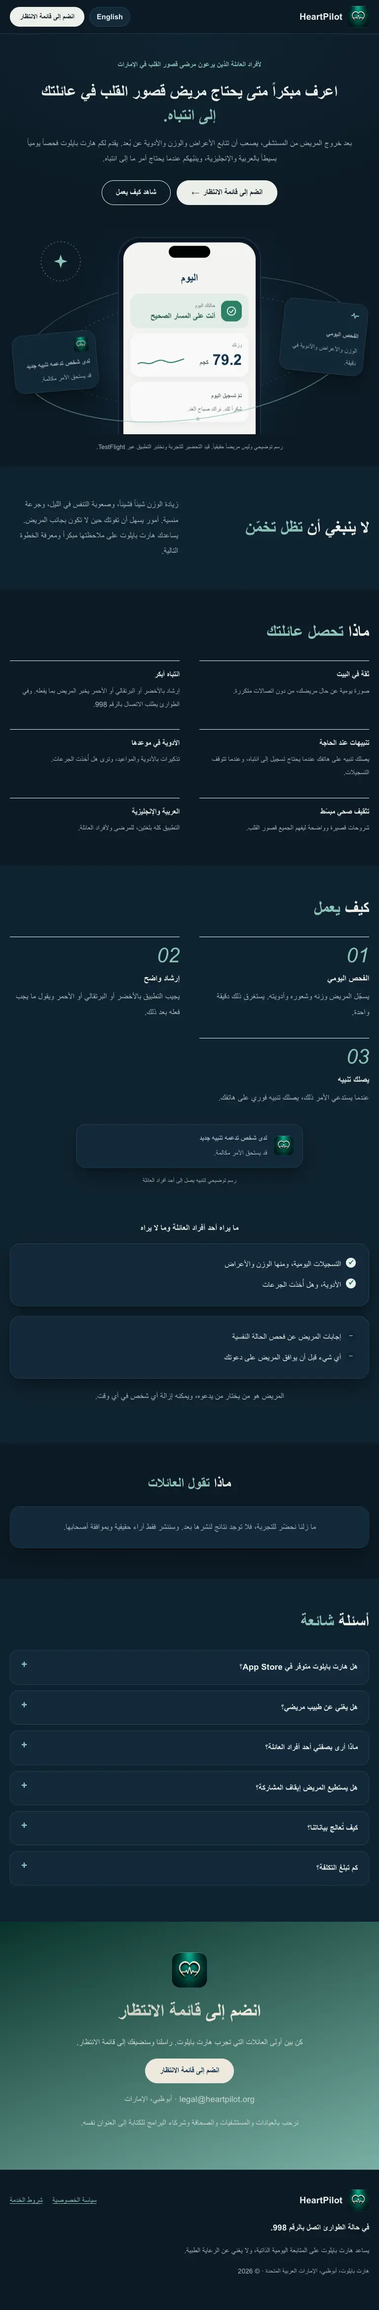
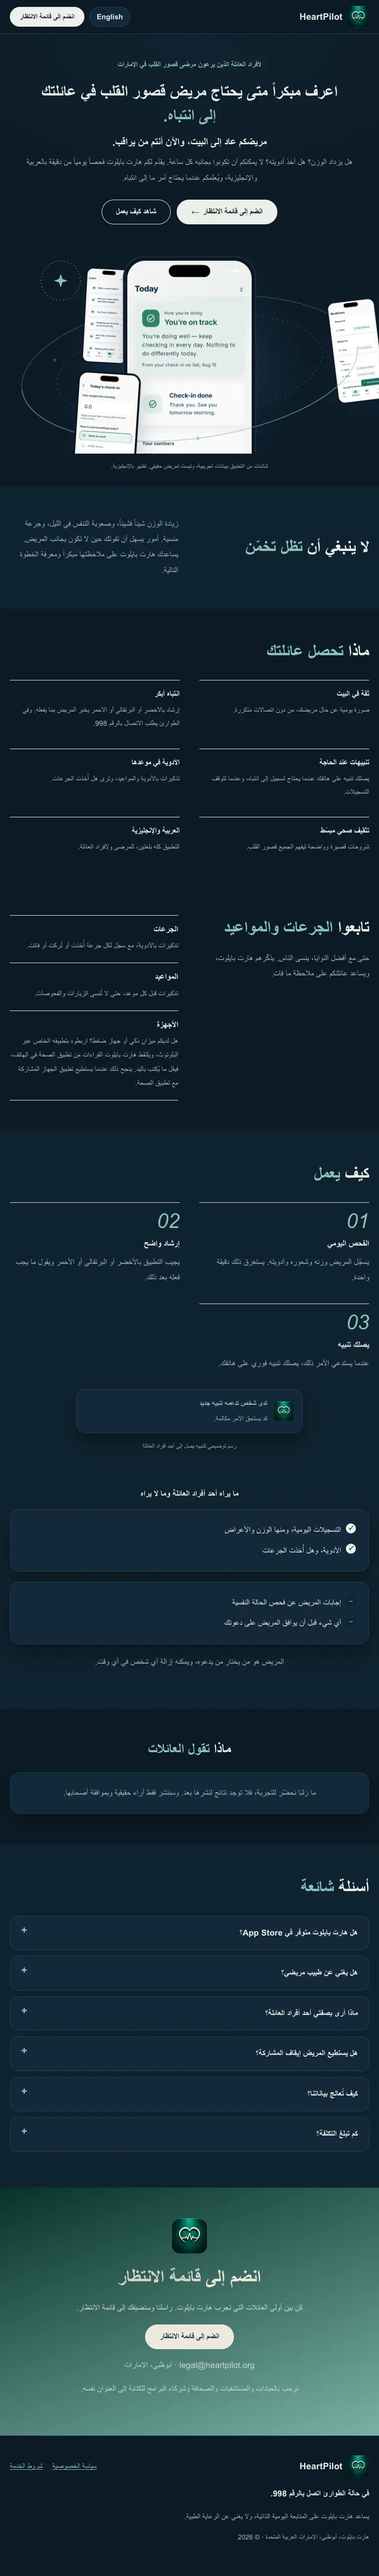
Hero: real app screens orbiting the central phone; device line says Bluetooth via the device's own app

diff --git a/index.html b/index.html
@@ -44,24 +44,17 @@
 <h1><span data-l="en">Know sooner when your loved one’s <em>heart failure needs attention.</em></span><span data-l="ar" lang="ar">اعرف مبكراً متى يحتاج مريض قصور القلب في عائلتك <em>إلى انتباه.</em></span></h1>
 <p class="lead lead-hero"><span data-l="en"><strong>They’re home from hospital. Now you’re the one watching.</strong> Is the weight creeping up? Did they take their pills? You can’t be there every hour. HeartPilot gives your family a one-minute daily check-in in English and Arabic, and lets you know when something needs attention.</span><span data-l="ar" lang="ar"><strong>مريضكم عاد إلى البيت، والآن أنتم من يراقب.</strong> هل يزداد الوزن؟ هل أخذ أدويته؟ لا يمكنكم أن تكونوا بجانبه كل ساعة. يقدّم لكم هارت بايلوت فحصاً يومياً من دقيقة بالعربية والإنجليزية، ويُعلمكم عندما يحتاج أمر ما إلى انتباه.</span></p>
 <div class="cta"><a class="btn btn-dark" href="#contact"><span data-l="en">Join the waitlist</span><span data-l="ar" lang="ar">انضم إلى قائمة الانتظار</span><i aria-hidden="true" class="arr">→</i></a><a class="btn btn-ghost" href="#how"><span data-l="en">See how it works</span><span data-l="ar" lang="ar">شاهد كيف يعمل</span></a></div>
-<div class="stage" role="img" aria-label="An illustration of the HeartPilot Today screen showing the message You are on track, with a daily check-in card and a caregiver alert card" data-aria-en="An illustration of the HeartPilot Today screen showing the message You are on track, with a daily check-in card and a caregiver alert card" data-aria-ar="رسم توضيحي لشاشة اليوم في هارت بايلوت يعرض رسالة أنت على المسار الصحيح، مع بطاقة الفحص اليومي وبطاقة تنبيه لأحد أفراد العائلة">
+<div class="stage" role="img" aria-label="Screens from the HeartPilot app, with sample data: Today, Medicines, Today’s check-in and Learn" data-aria-en="Screens from the HeartPilot app, with sample data: Today, Medicines, Today’s check-in and Learn" data-aria-ar="شاشات من تطبيق هارت بايلوت ببيانات تجريبية: اليوم، والأدوية، والفحص اليومي، والتعلّم">
 <svg class="orbit orbit-back" viewBox="0 0 1000 560" preserveAspectRatio="none" aria-hidden="true"><g transform="rotate(-7 500 330)" fill="none" stroke="currentColor" stroke-width="1.4" vector-effect="non-scaling-stroke"><ellipse cx="500" cy="330" rx="470" ry="190" vector-effect="non-scaling-stroke"/><ellipse cx="500" cy="330" rx="372" ry="140" stroke-dasharray="3 7" vector-effect="non-scaling-stroke"/></g><g transform="rotate(-7 500 330)" fill="currentColor"><circle cx="500" cy="140" r="5"/><circle cx="130" cy="262" r="4"/><circle cx="905" cy="400" r="4"/></g></svg>
 <svg class="orbit orbit-front" viewBox="0 0 1000 560" preserveAspectRatio="none" aria-hidden="true"><g transform="rotate(-7 500 330)"><path d="M30 330A470 190 0 0 0 970 330" fill="none" stroke="currentColor" stroke-width="1.8" vector-effect="non-scaling-stroke"/><circle cx="500" cy="520" r="5" fill="currentColor"/></g></svg>
 <div class="badge" aria-hidden="true"><svg viewBox="0 0 120 120"><defs><path id="bc" d="M60 60m-46 0a46 46 0 1 1 92 0a46 46 0 1 1-92 0"/></defs><g class="spin"><text data-l="en"><textPath href="#bc">DAILY CHECK-IN · EARLIER AWARENESS · </textPath></text><circle data-l="ar" cx="60" cy="60" r="46" fill="none" stroke="currentColor" stroke-width="1.2" stroke-dasharray="2 6"/></g><path d="M60 44l4 12 12 4-12 4-4 12-4-12-12-4 12-4z" fill="currentColor"/></svg></div>
-<div class="gcard g-left" aria-hidden="true"><svg viewBox="0 0 24 24" width="22" height="22"><path d="M4 12h3l2-5 3 10 2-5h6" fill="none" stroke="currentColor" stroke-width="2" stroke-linecap="round" stroke-linejoin="round"/></svg><b><span data-l="en">Daily check-in</span><span data-l="ar" lang="ar">الفحص اليومي</span></b><span><span data-l="en">Weight, symptoms and medicines in a minute.</span><span data-l="ar" lang="ar">الوزن والأعراض والأدوية في دقيقة.</span></span></div>
-<div class="phone" aria-hidden="true"><div class="notch"></div><div class="screen">
-<div class="s-top"><b><span data-l="en">Today</span><span data-l="ar" lang="ar">اليوم</span></b></div>
-<div class="s-card s-ok"><span class="s-ico"><svg viewBox="0 0 24 24" width="22" height="22"><circle cx="12" cy="12" r="9" fill="none" stroke="#fff" stroke-width="2"/><path d="M8 12.5l3 3 5-6" fill="none" stroke="#fff" stroke-width="2" stroke-linecap="round" stroke-linejoin="round"/></svg></span>
-<div><small><span data-l="en">How you’re doing</span><span data-l="ar" lang="ar">حالتك اليوم</span></small><strong><span data-l="en">You’re on track</span><span data-l="ar" lang="ar">أنت على المسار الصحيح</span></strong></div></div>
-<div class="s-card s-num"><small><span data-l="en">Your weight</span><span data-l="ar" lang="ar">وزنك</span></small><strong>79.2 <i><span data-l="en">kg</span><span data-l="ar" lang="ar">كجم</span></i></strong>
-<svg viewBox="0 0 120 36" class="spark" aria-hidden="true"><path d="M2 22c14-8 22 4 36-2s20-10 34-4 22 2 46-6" fill="none" stroke="currentColor" stroke-width="2.4" stroke-linecap="round"/></svg></div>
-<div class="s-card s-done"><b><span data-l="en">Check-in done</span><span data-l="ar" lang="ar">تمّ تسجيل اليوم</span></b><span><span data-l="en">Thank you. See you tomorrow morning.</span><span data-l="ar" lang="ar">شكراً لك. نراك صباح الغد.</span></span></div>
-</div></div>
-<div class="gcard g-right" aria-hidden="true"><img class="logo" src="/assets/logo-128.png" width="30" height="30" alt=""><b><span data-l="en">Someone you support has a new alert</span><span data-l="ar" lang="ar">لدى شخص تدعمه تنبيه جديد</span></b><span><span data-l="en">It may be worth a call.</span><span data-l="ar" lang="ar">قد يستحق الأمر مكالمة.</span></span></div>
+<div class="phone shot" aria-hidden="true"><div class="notch"></div><img src="/assets/app-today.webp" width="420" height="913" alt="" fetchpriority="high"></div>
+<img class="sat s1" src="/assets/app-medicines.webp" width="260" height="565" alt="" loading="lazy" style="left:88%;top:68%">
+<img class="sat s2" src="/assets/app-checkin.webp" width="260" height="565" alt="" loading="lazy" style="left:30%;top:88%">
+<img class="sat s3" src="/assets/app-learn.webp" width="260" height="565" alt="" loading="lazy" style="left:20%;top:38%">
 <p class="stage-note" aria-hidden="true"><i></i><span data-l="en">In pilot preparation. Not yet on the App Store.</span><span data-l="ar" lang="ar">قيد التحضير للتجربة. غير متوفر بعد في App Store.</span></p>
-<p class="stage-tag" aria-hidden="true"><span data-l="en">Less guessing. More confidence.</span><span data-l="ar" lang="ar">تخمين أقل. ثقة أكبر.</span></p>
 </div>
-<p class="cap"><span data-l="en">Illustration, not a real patient. In pilot preparation, testing on TestFlight.</span><span data-l="ar" lang="ar">رسم توضيحي وليس مريضاً حقيقياً. قيد التحضير للتجربة ونختبر التطبيق عبر TestFlight.</span></p>
+<p class="cap"><span data-l="en">Screens from the app, with sample data. Not a real patient. Shown in English.</span><span data-l="ar" lang="ar">شاشات من التطبيق ببيانات تجريبية، وليست لمريض حقيقي. تظهر بالإنجليزية.</span></p>
 </div></section>
 <section class="alt"><div class="wrap split">
 <h2><span data-l="en">You should not have to <em>guess</em></span><span data-l="ar" lang="ar">لا ينبغي أن <em>تظل تخمّن</em></span></h2>
@@ -73,7 +66,7 @@
 <section id="reminders"><div class="wrap split top">
 <div><h2><span data-l="en">Keep track of <em>doses and visits</em></span><span data-l="ar" lang="ar">تابعوا <em>الجرعات والمواعيد</em></span></h2>
 <p class="lead"><span data-l="en">Even with the best intentions, people forget. HeartPilot reminds them, and helps your family see when something slipped.</span><span data-l="ar" lang="ar">حتى مع أفضل النوايا، ينسى الناس. يذكّرهم هارت بايلوت، ويساعد عائلتكم على ملاحظة ما فات.</span></p></div>
-<ul class="rows"><li class="row"><h3><span data-l="en">Doses</span><span data-l="ar" lang="ar">الجرعات</span></h3><p><span data-l="en">Medicine reminders, plus a record of each dose taken, skipped or missed.</span><span data-l="ar" lang="ar">تذكيرات بالأدوية، مع سجل لكل جرعة أُخذت أو تُركت أو فاتت.</span></p></li><li class="row"><h3><span data-l="en">Appointments</span><span data-l="ar" lang="ar">المواعيد</span></h3><p><span data-l="en">Reminders before each appointment, so visits and tests are not forgotten.</span><span data-l="ar" lang="ar">تذكيرات قبل كل موعد، حتى لا تُنسى الزيارات والفحوصات.</span></p></li><li class="row"><h3><span data-l="en">Devices</span><span data-l="ar" lang="ar">الأجهزة</span></h3><p><span data-l="en">Have a smart scale or blood pressure monitor? Readings can come in through the phone’s Health app, so there is less to type. This works when the device’s own app can share with Health.</span><span data-l="ar" lang="ar">هل لديكم ميزان ذكي أو جهاز ضغط؟ يمكن أن تصل القراءات عبر تطبيق الصحة في الهاتف، فيقل ما يُكتب باليد. ينجح ذلك عندما يستطيع تطبيق الجهاز نفسه المشاركة مع تطبيق الصحة.</span></p></li></ul>
+<ul class="rows"><li class="row"><h3><span data-l="en">Doses</span><span data-l="ar" lang="ar">الجرعات</span></h3><p><span data-l="en">Medicine reminders, plus a record of each dose taken, skipped or missed.</span><span data-l="ar" lang="ar">تذكيرات بالأدوية، مع سجل لكل جرعة أُخذت أو تُركت أو فاتت.</span></p></li><li class="row"><h3><span data-l="en">Appointments</span><span data-l="ar" lang="ar">المواعيد</span></h3><p><span data-l="en">Reminders before each appointment, so visits and tests are not forgotten.</span><span data-l="ar" lang="ar">تذكيرات قبل كل موعد، حتى لا تُنسى الزيارات والفحوصات.</span></p></li><li class="row"><h3><span data-l="en">Devices</span><span data-l="ar" lang="ar">الأجهزة</span></h3><p><span data-l="en">Have a smart scale or blood pressure monitor? Pair it with its own app over Bluetooth, and HeartPilot picks up the readings through the phone’s Health app, so there is less to type. This works when the device’s app can share with Health.</span><span data-l="ar" lang="ar">هل لديكم ميزان ذكي أو جهاز ضغط؟ اربطوه بتطبيقه الخاص عبر البلوتوث، ويلتقط هارت بايلوت القراءات من تطبيق الصحة في الهاتف، فيقل ما يُكتب باليد. ينجح ذلك عندما يستطيع تطبيق الجهاز المشاركة مع تطبيق الصحة.</span></p></li></ul>
 </div></section>
 <section class="alt" id="how"><div class="wrap">
 <div class="sec-head"><h2><span data-l="en">How it <em>works</em></span><span data-l="ar" lang="ar">كيف <em>يعمل</em></span></h2></div>

diff --git a/assets/css/styles.css b/assets/css/styles.css
@@ -60,7 +60,7 @@ html[lang=ar] .hero h1{font-size:clamp(1.8rem,4.4vw,3.3rem);line-height:1.4}html
 .btn-ghost{background:var(--surface);color:var(--ink);border:1px solid var(--line)}
 .btn-ghost:hover{border-color:var(--ink);box-shadow:none}
 .arr{font-style:normal;margin-inline-start:8px}html[dir=rtl] .arr{display:inline-block;transform:scaleX(-1)}
-.stage{position:relative;max-width:1040px;margin:44px auto 0;height:clamp(420px,52vw,560px);overflow:hidden}
+.stage{position:relative;max-width:1040px;margin:44px auto 0;height:clamp(420px,52vw,560px);clip-path:inset(0 -300px 0 -300px)}
 .stage::after{content:"";position:absolute;inset-inline:0;bottom:0;height:120px;background:linear-gradient(transparent,var(--bg));pointer-events:none}
 .orbit{position:absolute;inset:0;width:100%;height:100%;color:var(--teal);pointer-events:none}
 .orbit-back{opacity:.35;z-index:0}.orbit-front{opacity:.55;z-index:4}
@@ -71,7 +71,7 @@ html[lang=ar] .badge text{letter-spacing:0;font-size:11px}
 .spin{transform-origin:60px 60px;animation:spin 28s linear infinite}
 @keyframes spin{to{transform:rotate(360deg)}}
 @media (max-width:640px){.badge{display:none}}
-.phone{z-index:2;position:absolute;inset-inline:0;margin-inline:auto;top:20px;width:min(290px,64vw);height:560px;background:#0B1623;border-radius:44px;padding:11px;box-shadow:0 30px 70px rgba(16,49,74,.3),inset 0 0 0 2px #223249;animation:rise .9s cubic-bezier(.2,.7,.2,1) both}
+.phone{z-index:2;position:absolute;inset-inline:0;margin-inline:auto;top:20px;width:min(270px,64vw);height:560px;background:#0B1623;border-radius:44px;padding:11px;box-shadow:0 30px 70px rgba(16,49,74,.3),inset 0 0 0 2px #223249;animation:rise .9s cubic-bezier(.2,.7,.2,1) both}
 .notch{position:absolute;top:18px;inset-inline:0;margin-inline:auto;width:84px;height:24px;background:#000;border-radius:14px;z-index:2}
 .screen{height:100%;border-radius:34px;background:#FAF9F7;padding:52px 14px 14px;display:flex;flex-direction:column;gap:10px;color:#10314A;overflow:hidden}
 .s-top b{font-size:1.4rem}
@@ -169,3 +169,13 @@ html[lang=ar] h2 em{font-style:normal;font-weight:700}
 .row:last-child{border-bottom:1px solid var(--ink)}
 .row h3{margin:0 0 6px}.row p{margin:0;color:var(--muted);font-size:.95rem}
 #reminders h2{margin-bottom:.6em}
+
+/* app screens orbiting the central phone */
+.phone.shot{padding:9px;height:auto;aspect-ratio:auto}
+.phone.shot img{display:block;width:100%;height:auto;border-radius:36px}
+.sat{position:absolute;width:var(--sw,128px);height:auto;border-radius:20px;border:4px solid #0B1623;box-shadow:0 18px 40px rgba(16,49,74,.28);background:#FAF9F7;transform:translate(-50%,-50%);animation:orbit 72s linear infinite;z-index:5}
+.s2{animation-delay:-24s}.s3{animation-delay:-48s}
+@keyframes orbit{0.00%{left:96.65%;top:48.70%;z-index:1;transform:translate(-50%,-50%) rotate(-7.0deg) scale(0.72)}4.17%{left:95.66%;top:57.76%;z-index:5;transform:translate(-50%,-50%) rotate(-6.8deg) scale(1)}8.33%{left:91.56%;top:66.91%;z-index:5;transform:translate(-50%,-50%) rotate(-6.1deg) scale(1)}12.50%{left:84.62%;top:75.51%;z-index:5;transform:translate(-50%,-50%) rotate(-4.9deg) scale(1)}16.67%{left:75.33%;top:82.98%;z-index:5;transform:translate(-50%,-50%) rotate(-3.5deg) scale(1)}20.83%{left:64.31%;top:88.81%;z-index:5;transform:translate(-50%,-50%) rotate(-1.8deg) scale(1)}25.00%{left:52.32%;top:92.60%;z-index:5;transform:translate(-50%,-50%) rotate(-0.0deg) scale(1)}29.17%{left:40.16%;top:94.10%;z-index:5;transform:translate(-50%,-50%) rotate(1.8deg) scale(1)}33.33%{left:28.68%;top:93.21%;z-index:5;transform:translate(-50%,-50%) rotate(3.5deg) scale(1)}37.50%{left:18.65%;top:89.97%;z-index:5;transform:translate(-50%,-50%) rotate(4.9deg) scale(1)}41.67%{left:10.76%;top:84.62%;z-index:5;transform:translate(-50%,-50%) rotate(6.1deg) scale(1)}45.83%{left:5.54%;top:77.52%;z-index:5;transform:translate(-50%,-50%) rotate(6.8deg) scale(1)}50.00%{left:3.35%;top:69.16%;z-index:5;transform:translate(-50%,-50%) rotate(7.0deg) scale(1)}54.17%{left:4.34%;top:60.09%;z-index:1;transform:translate(-50%,-50%) rotate(6.8deg) scale(0.72)}58.33%{left:8.44%;top:50.95%;z-index:1;transform:translate(-50%,-50%) rotate(6.1deg) scale(0.72)}62.50%{left:15.38%;top:42.35%;z-index:1;transform:translate(-50%,-50%) rotate(4.9deg) scale(0.72)}66.67%{left:24.67%;top:34.88%;z-index:1;transform:translate(-50%,-50%) rotate(3.5deg) scale(0.72)}70.83%{left:35.69%;top:29.05%;z-index:1;transform:translate(-50%,-50%) rotate(1.8deg) scale(0.72)}75.00%{left:47.68%;top:25.25%;z-index:1;transform:translate(-50%,-50%) rotate(0.0deg) scale(0.72)}79.17%{left:59.84%;top:23.75%;z-index:1;transform:translate(-50%,-50%) rotate(-1.8deg) scale(0.72)}83.33%{left:71.32%;top:24.65%;z-index:1;transform:translate(-50%,-50%) rotate(-3.5deg) scale(0.72)}87.50%{left:81.35%;top:27.88%;z-index:1;transform:translate(-50%,-50%) rotate(-4.9deg) scale(0.72)}91.67%{left:89.24%;top:33.23%;z-index:1;transform:translate(-50%,-50%) rotate(-6.1deg) scale(0.72)}95.83%{left:94.46%;top:40.33%;z-index:1;transform:translate(-50%,-50%) rotate(-6.8deg) scale(0.72)}100.00%{left:96.65%;top:48.70%;z-index:1;transform:translate(-50%,-50%) rotate(-7.0deg) scale(0.72)}}
+
+@media (max-width:640px){.sat{--sw:76px;border-width:3px;border-radius:14px}.phone.shot{width:min(230px,60vw)}}
+@media (prefers-reduced-motion:reduce){.sat{animation:none!important}}

diff --git a/docs/arabic-review.md b/docs/arabic-review.md
@@ -15,92 +15,83 @@ One line needs a decision: *HeartPilot* is written « هارت بايلوت » i
 | 3 | Hero | Know sooner when your loved one’s heart failure needs attention. | اعرف مبكراً متى يحتاج مريض قصور القلب في عائلتك إلى انتباه. | |
 | 4 | Hero | They’re home from hospital. Now you’re the one watching. Is the weight creeping up? Did they take their pills? You can’t be there every hour. HeartPilot gives your family a one-minute daily check-in in English and Arabic, and lets you know when something needs attention. | مريضكم عاد إلى البيت، والآن أنتم من يراقب. هل يزداد الوزن؟ هل أخذ أدويته؟ لا يمكنكم أن تكونوا بجانبه كل ساعة. يقدّم لكم هارت بايلوت فحصاً يومياً من دقيقة بالعربية والإنجليزية، ويُعلمكم عندما يحتاج أمر ما إلى انتباه. | |
 | 5 | Hero | See how it works | شاهد كيف يعمل | |
-| 6 | Hero (accessibility label) | An illustration of the HeartPilot Today screen showing the message You are on track, with a daily check-in card and a caregiver alert card | رسم توضيحي لشاشة اليوم في هارت بايلوت يعرض رسالة أنت على المسار الصحيح، مع بطاقة الفحص اليومي وبطاقة تنبيه لأحد أفراد العائلة | |
-| 7 | Hero | Daily check-in | الفحص اليومي | |
-| 8 | Hero | Weight, symptoms and medicines in a minute. | الوزن والأعراض والأدوية في دقيقة. | |
-| 9 | Hero | Today | اليوم | |
-| 10 | Hero | How you’re doing | حالتك اليوم | |
-| 11 | Hero | You’re on track | أنت على المسار الصحيح | |
-| 12 | Hero | Your weight | وزنك | |
-| 13 | Hero | kg | كجم | |
-| 14 | Hero | Check-in done | تمّ تسجيل اليوم | |
-| 15 | Hero | Thank you. See you tomorrow morning. | شكراً لك. نراك صباح الغد. | |
-| 16 | Hero | Someone you support has a new alert | لدى شخص تدعمه تنبيه جديد | |
-| 17 | Hero | It may be worth a call. | قد يستحق الأمر مكالمة. | |
-| 18 | Hero | In pilot preparation. Not yet on the App Store. | قيد التحضير للتجربة. غير متوفر بعد في App Store. | |
-| 19 | Hero | Less guessing. More confidence. | تخمين أقل. ثقة أكبر. | |
-| 20 | Hero | Illustration, not a real patient. In pilot preparation, testing on TestFlight. | رسم توضيحي وليس مريضاً حقيقياً. قيد التحضير للتجربة ونختبر التطبيق عبر TestFlight. | |
-| 21 | Why it helps | You should not have to guess | لا ينبغي أن تظل تخمّن | |
-| 22 | Why it helps | Weight creeping up, harder breathing at night, a missed tablet. These are easy to miss when you are not in the room. HeartPilot helps you see them early and know what to do next. | زيادة الوزن شيئاً فشيئاً، وصعوبة التنفس في الليل، وجرعة منسية. أمور يسهل أن تفوتك حين لا تكون بجانب المريض. يساعدك هارت بايلوت على ملاحظتها مبكراً ومعرفة الخطوة التالية. | |
-| 23 | Benefits | Confidence at home | ثقة في البيت | |
-| 24 | Benefits | A daily picture of how your loved one is doing, without constant phone calls. | صورة يومية عن حال مريضك، من دون اتصالات متكررة. | |
-| 25 | Benefits | Earlier awareness | انتباه أبكر | |
-| 26 | Benefits | Green, amber or red guidance tells the patient what to do. In an emergency it says to call 998. | إرشاد بالأخضر أو البرتقالي أو الأحمر يخبر المريض بما يفعله. وفي الطوارئ يطلب الاتصال بالرقم 998. | |
-| 27 | Benefits | Alerts that matter | تنبيهات عند الحاجة | |
-| 28 | Benefits | You get an alert on your phone when a check-in needs attention, and again if check-ins stop. | يصلك تنبيه على هاتفك عندما يحتاج تسجيل إلى انتباه، وعندما تتوقف التسجيلات. | |
-| 29 | Benefits | Medicines on track | الأدوية في موعدها | |
-| 30 | Benefits | Reminders for medicines and appointments, and you can see whether doses were taken. | تذكيرات بالأدوية والمواعيد، وترى هل أُخذت الجرعات. | |
-| 31 | Benefits | Simple health education | تثقيف صحي مبسّط | |
-| 32 | Benefits | Short, plain explanations, so the whole family understands heart failure. | شروحات قصيرة وواضحة ليفهم الجميع قصور القلب. | |
-| 33 | Benefits | English and Arabic | العربية والإنجليزية | |
-| 34 | Benefits | The whole app works in both languages, for patients and caregivers. | التطبيق كله بلغتين، للمرضى ولأفراد العائلة. | |
-| 35 | Benefits | What your family gets | ماذا تحصل عائلتك | |
-| 36 | Doses, appointments and devices | Doses | الجرعات | |
-| 37 | Doses, appointments and devices | Medicine reminders, plus a record of each dose taken, skipped or missed. | تذكيرات بالأدوية، مع سجل لكل جرعة أُخذت أو تُركت أو فاتت. | |
-| 38 | Doses, appointments and devices | Appointments | المواعيد | |
-| 39 | Doses, appointments and devices | Reminders before each appointment, so visits and tests are not forgotten. | تذكيرات قبل كل موعد، حتى لا تُنسى الزيارات والفحوصات. | |
-| 40 | Doses, appointments and devices | Devices | الأجهزة | |
-| 41 | Doses, appointments and devices | Have a smart scale or blood pressure monitor? Readings can come in through the phone’s Health app, so there is less to type. This works when the device’s own app can share with Health. | هل لديكم ميزان ذكي أو جهاز ضغط؟ يمكن أن تصل القراءات عبر تطبيق الصحة في الهاتف، فيقل ما يُكتب باليد. ينجح ذلك عندما يستطيع تطبيق الجهاز نفسه المشاركة مع تطبيق الصحة. | |
-| 42 | Doses, appointments and devices | Keep track of doses and visits | تابعوا الجرعات والمواعيد | |
-| 43 | Doses, appointments and devices | Even with the best intentions, people forget. HeartPilot reminds them, and helps your family see when something slipped. | حتى مع أفضل النوايا، ينسى الناس. يذكّرهم هارت بايلوت، ويساعد عائلتكم على ملاحظة ما فات. | |
-| 44 | How it works | How it works | كيف يعمل | |
-| 45 | How it works | The patient logs their weight, how they feel and their medicines. It takes a minute. | يسجّل المريض وزنه وشعوره وأدويته. يستغرق ذلك دقيقة واحدة. | |
-| 46 | How it works | Clear guidance | إرشاد واضح | |
-| 47 | How it works | The app answers with green, amber or red and says what to do next. | يجيب التطبيق بالأخضر أو البرتقالي أو الأحمر ويقول ما يجب فعله بعد ذلك. | |
-| 48 | How it works | You are alerted | يصلك تنبيه | |
-| 49 | How it works | When it matters, you get an instant alert on your phone. | عندما يستدعي الأمر ذلك، يصلك تنبيه فوري على هاتفك. | |
-| 50 | How it works (accessibility label) | An illustration of a caregiver alert notification | رسم توضيحي لتنبيه يصل إلى أحد أفراد العائلة | |
-| 51 | How it works | Illustration of a caregiver alert | رسم توضيحي لتنبيه يصل إلى أحد أفراد العائلة | |
-| 52 | How it works | What a caregiver sees, and does not see | ما يراه أحد أفراد العائلة وما لا يراه | |
-| 53 | How it works | The daily check-ins, including weight and symptoms | التسجيلات اليومية، ومنها الوزن والأعراض | |
-| 54 | How it works | The medicines and whether doses were taken | الأدوية، وهل أُخذت الجرعات | |
-| 55 | How it works | The patient’s answers to the wellbeing check | إجابات المريض عن فحص الحالة النفسية | |
-| 56 | How it works | Anything before the patient accepts your invite | أي شيء قبل أن يوافق المريض على دعوتك | |
-| 57 | How it works | The patient chooses who to invite and can remove a caregiver at any time. | المريض هو من يختار من يدعوه، ويمكنه إزالة أي شخص في أي وقت. | |
-| 58 | Proof | What families say | ماذا تقول العائلات | |
-| 59 | Proof | We are still preparing our pilot, so there are no results to share yet. We will only publish real feedback, with permission. | ما زلنا نحضّر للتجربة، فلا توجد نتائج لنشرها بعد. وسننشر فقط آراء حقيقية وبموافقة أصحابها. | |
-| 60 | FAQ | Is HeartPilot on the App Store? | هل هارت بايلوت متوفر في App Store؟ | |
-| 61 | FAQ | Not yet. It is in pilot preparation and in TestFlight testing. Join the waitlist and we will tell you when you can try it. | ليس بعد. التطبيق قيد التحضير للتجربة ونختبره عبر TestFlight. انضم إلى قائمة الانتظار وسنخبرك عندما تتاح لك التجربة. | |
-| 62 | FAQ | Does it replace my loved one’s doctor? | هل يغني عن طبيب مريضي؟ | |
-| 63 | FAQ | No. HeartPilot supports daily self-management and does not replace medical care. In an emergency call 998. | لا. يساعد هارت بايلوت على المتابعة اليومية الذاتية، ولا يغني عن الرعاية الطبية. في حالة الطوارئ اتصل بالرقم 998. | |
-| 64 | FAQ | What can I see as a caregiver? | ماذا أرى بصفتي أحد أفراد العائلة؟ | |
-| 65 | FAQ | The daily check-ins, the medicines and whether doses were taken. You do not see the patient’s answers to the wellbeing check. | التسجيلات اليومية والأدوية وهل أُخذت الجرعات. لا ترى إجابات المريض عن فحص الحالة النفسية. | |
-| 66 | FAQ | Can the patient stop sharing? | هل يستطيع المريض إيقاف المشاركة؟ | |
-| 67 | FAQ | Yes. The patient chooses who to invite and can remove a caregiver at any time. Patients and caregivers can also delete their account inside the app. | نعم. المريض هو من يختار من يدعوه ويمكنه إزالة أي شخص في أي وقت. ويمكن للمريض ولأفراد العائلة أيضاً حذف حسابهم من داخل التطبيق. | |
-| 68 | FAQ | How is our data handled? | كيف تُعالج بياناتنا؟ | |
-| 69 | FAQ | Under our published Privacy Policy, which you can read before you join. | وفق سياسة الخصوصية المنشورة، ويمكنك قراءتها قبل الانضمام. | |
-| 70 | FAQ | What does it cost? | كم تبلغ التكلفة؟ | |
-| 71 | FAQ | Pricing has not been announced yet. | لم يُعلن عن الأسعار بعد. | |
-| 72 | FAQ | Your questions | أسئلة شائعة | |
-| 73 | Call to action and contact | Be among the first families to try HeartPilot. Send us an email and we will add you to the waitlist. | كن بين أولى العائلات التي تجرب هارت بايلوت. راسلنا وسنضيفك إلى قائمة الانتظار. | |
-| 74 | Call to action and contact | Abu Dhabi, UAE | أبوظبي، الإمارات | |
-| 75 | Call to action and contact | Clinics, hospitals, press and programme partners are welcome to write to the same address. | نرحب بالعيادات والمستشفيات والصحافة وشركاء البرامج للكتابة إلى العنوان نفسه. | |
-| 76 | Page title and description | HeartPilot: heart failure care at home for UAE families / Join the waitlist | هارت بايلوت: متابعة قصور القلب في البيت للعائلات في الإمارات / انضم إلى قائمة الانتظار | |
-| 77 | Page title and description | HeartPilot is a bilingual daily check-in app for people with heart failure. It tells patients what to do and alerts a family caregiver when it matters. In pilot preparation. | هارت بايلوت تطبيق للفحص اليومي لمرضى قصور القلب بالعربية والإنجليزية. يخبر المريض بما يفعله وينبّه أحد أفراد العائلة عند الحاجة. قيد التحضير للتجربة. | |
-| 78 | Call to action and contact | Skip to content | انتقل إلى المحتوى | |
-| 79 | Header (accessibility label) | HeartPilot home | HeartPilot، الصفحة الرئيسية | |
-| 80 | Header (accessibility label) | Page sections | أقسام الصفحة | |
-| 81 | Header | Benefits | المزايا | |
-| 82 | Header | Questions | أسئلة | |
-| 83 | Header | Contact | تواصل | |
-| 84 | Header (accessibility label) | العربية, switch language to Arabic | English، التبديل إلى الإنجليزية | |
-| 85 | Footer | Privacy Policy | سياسة الخصوصية | |
-| 86 | Footer | Terms of Service | شروط الخدمة | |
-| 87 | Footer | In an emergency call 998. | في حالة الطوارئ اتصل بالرقم 998. | |
-| 88 | Footer | HeartPilot supports daily self-management and does not replace medical care. | يساعد هارت بايلوت على المتابعة اليومية الذاتية، ولا يغني عن الرعاية الطبية. | |
-| 89 | Footer | HeartPilot, Abu Dhabi, UAE | هارت بايلوت، أبوظبي، الإمارات العربية المتحدة | |
-| 90 | 404 page | We could not find that page | لم نجد هذه الصفحة | |
-| 91 | 404 page | The link may be old or mistyped. | ربما الرابط قديم أو فيه خطأ. | |
-| 92 | 404 page | Go to the home page | العودة إلى الصفحة الرئيسية | |
-| 93 | Page title and description | Page not found / HeartPilot | الصفحة غير موجودة / هارت بايلوت | |
-| 94 | Page title and description | This page does not exist. | هذه الصفحة غير موجودة. | |
+| 6 | Hero (accessibility label) | Screens from the HeartPilot app, with sample data: Today, Medicines, Today’s check-in and Learn | شاشات من تطبيق هارت بايلوت ببيانات تجريبية: اليوم، والأدوية، والفحص اليومي، والتعلّم | |
+| 7 | Hero | In pilot preparation. Not yet on the App Store. | قيد التحضير للتجربة. غير متوفر بعد في App Store. | |
+| 8 | Hero | Screens from the app, with sample data. Not a real patient. Shown in English. | شاشات من التطبيق ببيانات تجريبية، وليست لمريض حقيقي. تظهر بالإنجليزية. | |
+| 9 | Why it helps | You should not have to guess | لا ينبغي أن تظل تخمّن | |
+| 10 | Why it helps | Weight creeping up, harder breathing at night, a missed tablet. These are easy to miss when you are not in the room. HeartPilot helps you see them early and know what to do next. | زيادة الوزن شيئاً فشيئاً، وصعوبة التنفس في الليل، وجرعة منسية. أمور يسهل أن تفوتك حين لا تكون بجانب المريض. يساعدك هارت بايلوت على ملاحظتها مبكراً ومعرفة الخطوة التالية. | |
+| 11 | Benefits | Confidence at home | ثقة في البيت | |
+| 12 | Benefits | A daily picture of how your loved one is doing, without constant phone calls. | صورة يومية عن حال مريضك، من دون اتصالات متكررة. | |
+| 13 | Benefits | Earlier awareness | انتباه أبكر | |
+| 14 | Benefits | Green, amber or red guidance tells the patient what to do. In an emergency it says to call 998. | إرشاد بالأخضر أو البرتقالي أو الأحمر يخبر المريض بما يفعله. وفي الطوارئ يطلب الاتصال بالرقم 998. | |
+| 15 | Benefits | Alerts that matter | تنبيهات عند الحاجة | |
+| 16 | Benefits | You get an alert on your phone when a check-in needs attention, and again if check-ins stop. | يصلك تنبيه على هاتفك عندما يحتاج تسجيل إلى انتباه، وعندما تتوقف التسجيلات. | |
+| 17 | Benefits | Medicines on track | الأدوية في موعدها | |
+| 18 | Benefits | Reminders for medicines and appointments, and you can see whether doses were taken. | تذكيرات بالأدوية والمواعيد، وترى هل أُخذت الجرعات. | |
+| 19 | Benefits | Simple health education | تثقيف صحي مبسّط | |
+| 20 | Benefits | Short, plain explanations, so the whole family understands heart failure. | شروحات قصيرة وواضحة ليفهم الجميع قصور القلب. | |
+| 21 | Benefits | English and Arabic | العربية والإنجليزية | |
+| 22 | Benefits | The whole app works in both languages, for patients and caregivers. | التطبيق كله بلغتين، للمرضى ولأفراد العائلة. | |
+| 23 | Benefits | What your family gets | ماذا تحصل عائلتك | |
+| 24 | Doses, appointments and devices | Doses | الجرعات | |
+| 25 | Doses, appointments and devices | Medicine reminders, plus a record of each dose taken, skipped or missed. | تذكيرات بالأدوية، مع سجل لكل جرعة أُخذت أو تُركت أو فاتت. | |
+| 26 | Doses, appointments and devices | Appointments | المواعيد | |
+| 27 | Doses, appointments and devices | Reminders before each appointment, so visits and tests are not forgotten. | تذكيرات قبل كل موعد، حتى لا تُنسى الزيارات والفحوصات. | |
+| 28 | Doses, appointments and devices | Devices | الأجهزة | |
+| 29 | Doses, appointments and devices | Have a smart scale or blood pressure monitor? Pair it with its own app over Bluetooth, and HeartPilot picks up the readings through the phone’s Health app, so there is less to type. This works when the device’s app can share with Health. | هل لديكم ميزان ذكي أو جهاز ضغط؟ اربطوه بتطبيقه الخاص عبر البلوتوث، ويلتقط هارت بايلوت القراءات من تطبيق الصحة في الهاتف، فيقل ما يُكتب باليد. ينجح ذلك عندما يستطيع تطبيق الجهاز المشاركة مع تطبيق الصحة. | |
+| 30 | Doses, appointments and devices | Keep track of doses and visits | تابعوا الجرعات والمواعيد | |
+| 31 | Doses, appointments and devices | Even with the best intentions, people forget. HeartPilot reminds them, and helps your family see when something slipped. | حتى مع أفضل النوايا، ينسى الناس. يذكّرهم هارت بايلوت، ويساعد عائلتكم على ملاحظة ما فات. | |
+| 32 | How it works | How it works | كيف يعمل | |
+| 33 | How it works | Daily check-in | الفحص اليومي | |
+| 34 | How it works | The patient logs their weight, how they feel and their medicines. It takes a minute. | يسجّل المريض وزنه وشعوره وأدويته. يستغرق ذلك دقيقة واحدة. | |
+| 35 | How it works | Clear guidance | إرشاد واضح | |
+| 36 | How it works | The app answers with green, amber or red and says what to do next. | يجيب التطبيق بالأخضر أو البرتقالي أو الأحمر ويقول ما يجب فعله بعد ذلك. | |
+| 37 | How it works | You are alerted | يصلك تنبيه | |
+| 38 | How it works | When it matters, you get an instant alert on your phone. | عندما يستدعي الأمر ذلك، يصلك تنبيه فوري على هاتفك. | |
+| 39 | How it works (accessibility label) | An illustration of a caregiver alert notification | رسم توضيحي لتنبيه يصل إلى أحد أفراد العائلة | |
+| 40 | How it works | Someone you support has a new alert | لدى شخص تدعمه تنبيه جديد | |
+| 41 | How it works | It may be worth a call. | قد يستحق الأمر مكالمة. | |
+| 42 | How it works | Illustration of a caregiver alert | رسم توضيحي لتنبيه يصل إلى أحد أفراد العائلة | |
+| 43 | How it works | What a caregiver sees, and does not see | ما يراه أحد أفراد العائلة وما لا يراه | |
+| 44 | How it works | The daily check-ins, including weight and symptoms | التسجيلات اليومية، ومنها الوزن والأعراض | |
+| 45 | How it works | The medicines and whether doses were taken | الأدوية، وهل أُخذت الجرعات | |
+| 46 | How it works | The patient’s answers to the wellbeing check | إجابات المريض عن فحص الحالة النفسية | |
+| 47 | How it works | Anything before the patient accepts your invite | أي شيء قبل أن يوافق المريض على دعوتك | |
+| 48 | How it works | The patient chooses who to invite and can remove a caregiver at any time. | المريض هو من يختار من يدعوه، ويمكنه إزالة أي شخص في أي وقت. | |
+| 49 | Proof | What families say | ماذا تقول العائلات | |
+| 50 | Proof | We are still preparing our pilot, so there are no results to share yet. We will only publish real feedback, with permission. | ما زلنا نحضّر للتجربة، فلا توجد نتائج لنشرها بعد. وسننشر فقط آراء حقيقية وبموافقة أصحابها. | |
+| 51 | FAQ | Is HeartPilot on the App Store? | هل هارت بايلوت متوفر في App Store؟ | |
+| 52 | FAQ | Not yet. It is in pilot preparation and in TestFlight testing. Join the waitlist and we will tell you when you can try it. | ليس بعد. التطبيق قيد التحضير للتجربة ونختبره عبر TestFlight. انضم إلى قائمة الانتظار وسنخبرك عندما تتاح لك التجربة. | |
+| 53 | FAQ | Does it replace my loved one’s doctor? | هل يغني عن طبيب مريضي؟ | |
+| 54 | FAQ | No. HeartPilot supports daily self-management and does not replace medical care. In an emergency call 998. | لا. يساعد هارت بايلوت على المتابعة اليومية الذاتية، ولا يغني عن الرعاية الطبية. في حالة الطوارئ اتصل بالرقم 998. | |
+| 55 | FAQ | What can I see as a caregiver? | ماذا أرى بصفتي أحد أفراد العائلة؟ | |
+| 56 | FAQ | The daily check-ins, the medicines and whether doses were taken. You do not see the patient’s answers to the wellbeing check. | التسجيلات اليومية والأدوية وهل أُخذت الجرعات. لا ترى إجابات المريض عن فحص الحالة النفسية. | |
+| 57 | FAQ | Can the patient stop sharing? | هل يستطيع المريض إيقاف المشاركة؟ | |
+| 58 | FAQ | Yes. The patient chooses who to invite and can remove a caregiver at any time. Patients and caregivers can also delete their account inside the app. | نعم. المريض هو من يختار من يدعوه ويمكنه إزالة أي شخص في أي وقت. ويمكن للمريض ولأفراد العائلة أيضاً حذف حسابهم من داخل التطبيق. | |
+| 59 | FAQ | How is our data handled? | كيف تُعالج بياناتنا؟ | |
+| 60 | FAQ | Under our published Privacy Policy, which you can read before you join. | وفق سياسة الخصوصية المنشورة، ويمكنك قراءتها قبل الانضمام. | |
+| 61 | FAQ | What does it cost? | كم تبلغ التكلفة؟ | |
+| 62 | FAQ | Pricing has not been announced yet. | لم يُعلن عن الأسعار بعد. | |
+| 63 | FAQ | Your questions | أسئلة شائعة | |
+| 64 | Call to action and contact | Be among the first families to try HeartPilot. Send us an email and we will add you to the waitlist. | كن بين أولى العائلات التي تجرب هارت بايلوت. راسلنا وسنضيفك إلى قائمة الانتظار. | |
+| 65 | Call to action and contact | Abu Dhabi, UAE | أبوظبي، الإمارات | |
+| 66 | Call to action and contact | Clinics, hospitals, press and programme partners are welcome to write to the same address. | نرحب بالعيادات والمستشفيات والصحافة وشركاء البرامج للكتابة إلى العنوان نفسه. | |
+| 67 | Page title and description | HeartPilot: heart failure care at home for UAE families / Join the waitlist | هارت بايلوت: متابعة قصور القلب في البيت للعائلات في الإمارات / انضم إلى قائمة الانتظار | |
+| 68 | Page title and description | HeartPilot is a bilingual daily check-in app for people with heart failure. It tells patients what to do and alerts a family caregiver when it matters. In pilot preparation. | هارت بايلوت تطبيق للفحص اليومي لمرضى قصور القلب بالعربية والإنجليزية. يخبر المريض بما يفعله وينبّه أحد أفراد العائلة عند الحاجة. قيد التحضير للتجربة. | |
+| 69 | Call to action and contact | Skip to content | انتقل إلى المحتوى | |
+| 70 | Header (accessibility label) | HeartPilot home | HeartPilot، الصفحة الرئيسية | |
+| 71 | Header (accessibility label) | Page sections | أقسام الصفحة | |
+| 72 | Header | Benefits | المزايا | |
+| 73 | Header | Questions | أسئلة | |
+| 74 | Header | Contact | تواصل | |
+| 75 | Header (accessibility label) | العربية, switch language to Arabic | English، التبديل إلى الإنجليزية | |
+| 76 | Footer | Privacy Policy | سياسة الخصوصية | |
+| 77 | Footer | Terms of Service | شروط الخدمة | |
+| 78 | Footer | In an emergency call 998. | في حالة الطوارئ اتصل بالرقم 998. | |
+| 79 | Footer | HeartPilot supports daily self-management and does not replace medical care. | يساعد هارت بايلوت على المتابعة اليومية الذاتية، ولا يغني عن الرعاية الطبية. | |
+| 80 | Footer | HeartPilot, Abu Dhabi, UAE | هارت بايلوت، أبوظبي، الإمارات العربية المتحدة | |
+| 81 | 404 page | We could not find that page | لم نجد هذه الصفحة | |
+| 82 | 404 page | The link may be old or mistyped. | ربما الرابط قديم أو فيه خطأ. | |
+| 83 | 404 page | Go to the home page | العودة إلى الصفحة الرئيسية | |
+| 84 | Page title and description | Page not found / HeartPilot | الصفحة غير موجودة / هارت بايلوت | |
+| 85 | Page title and description | This page does not exist. | هذه الصفحة غير موجودة. | |
